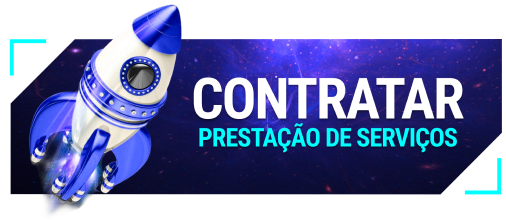
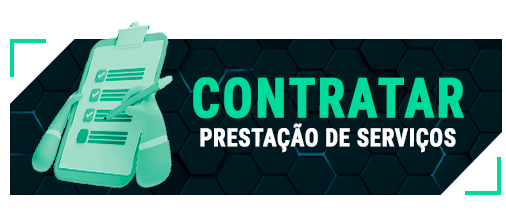
Atualização de Layout

diff --git a/styles/style.css b/styles/style.css
@@ -65,7 +65,7 @@ h1 {
 }
 
 section {
-    background-image: url("/image/background.png");
+    background-image: url("/image/background.jpg");
     background-repeat: no-repeat;
     background-position: center;
     background-size: cover;
